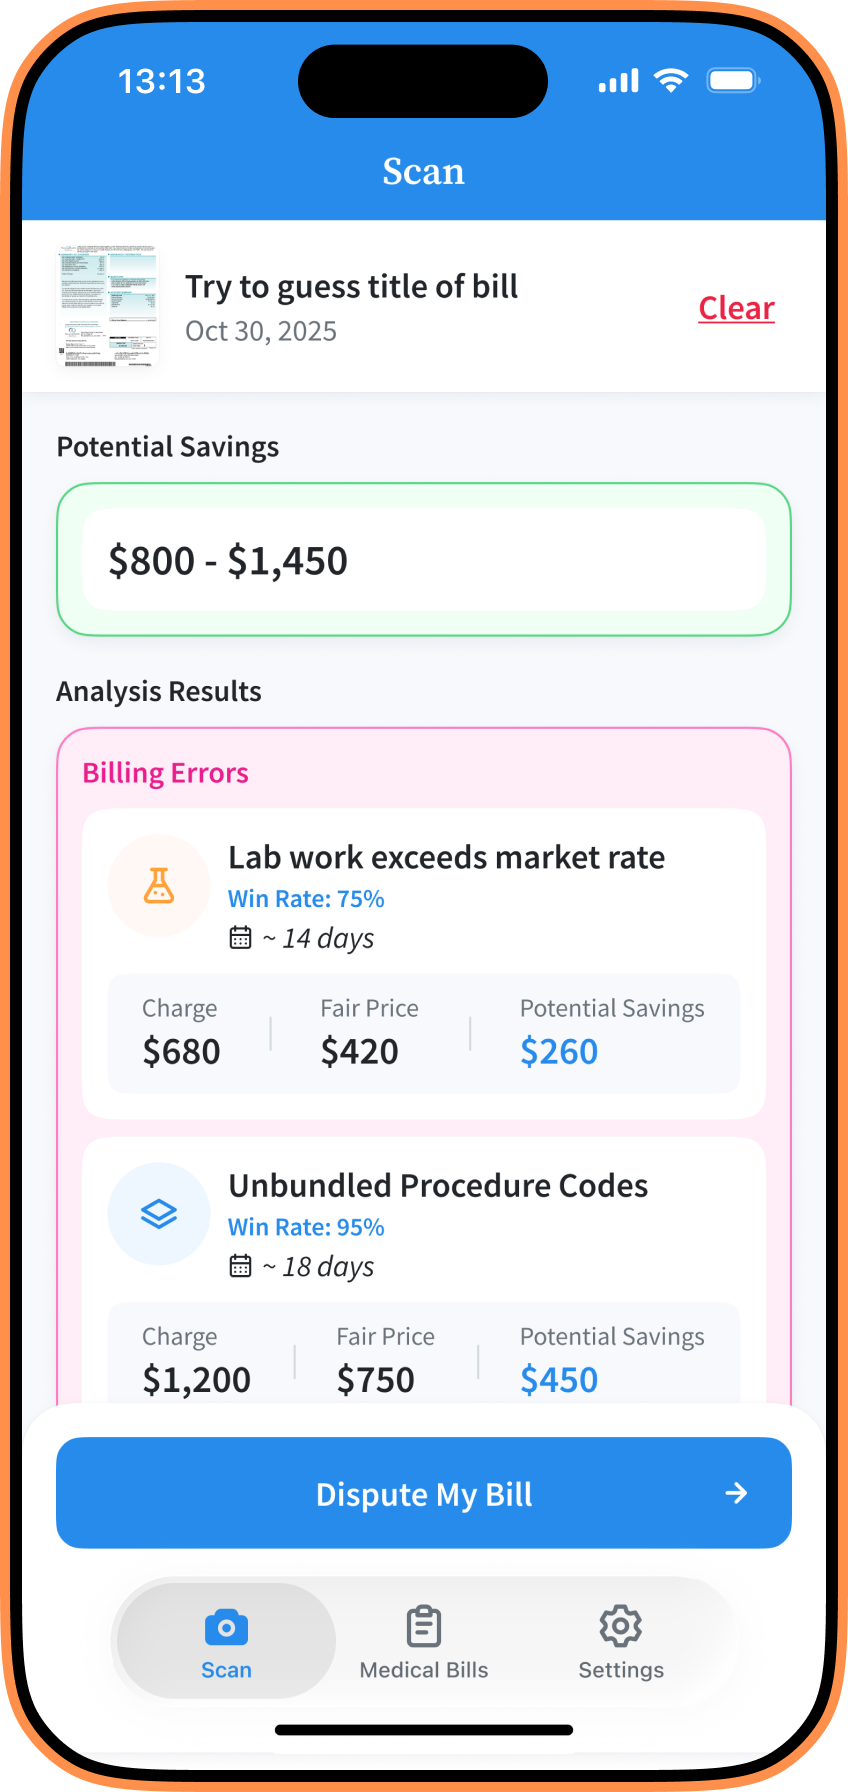
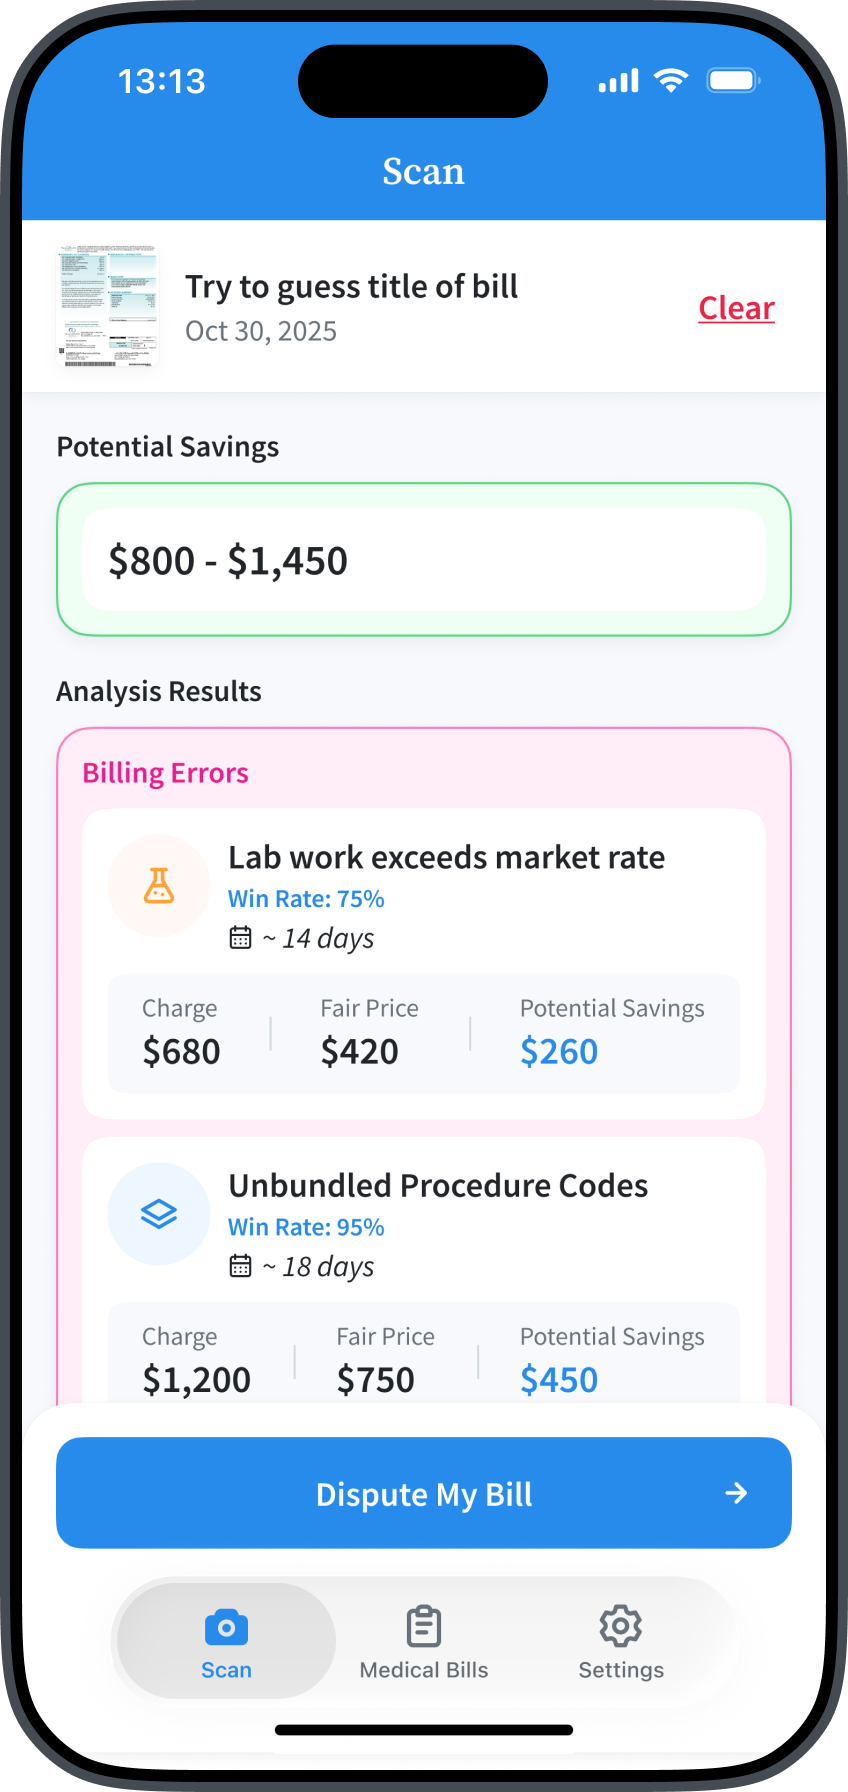
Update phone screenshots and resize to 320×676

diff --git a/index.html b/index.html
@@ -423,7 +423,7 @@
         position: relative;
         z-index: 1;
         width: 100%;
-        max-width: 424px;
+        max-width: 320px;
       }
       .phone img {
         width: 100%;
@@ -452,7 +452,7 @@
           padding: 64px 0 96px;
         }
         .phone {
-          max-width: 424px;
+          max-width: 320px;
         }
         .phone-tag {
           left: -10px;
@@ -819,7 +819,7 @@
           min-height: 460px;
         }
         .panel-phone .phone {
-          max-width: 424px;
+          max-width: 320px;
         }
       }
 
@@ -1559,8 +1559,8 @@
                 <img
                   src="assets/phone1.png"
                   alt="MedAdvocate scan screen with options to take a photo, choose from photo library, or pick a file."
-                  width="424"
-                  height="896"
+                  width="320"
+                  height="676"
                   loading="lazy"
                 />
               </div>
@@ -1593,8 +1593,8 @@
                 <img
                   src="assets/phone2.png"
                   alt="MedAdvocate analysis results showing 5 issues with high win rates and a duplicate charge of $850."
-                  width="424"
-                  height="896"
+                  width="320"
+                  height="676"
                   loading="lazy"
                 />
               </div>
@@ -1627,8 +1627,8 @@
                 <img
                   src="assets/phone3.png"
                   alt="MedAdvocate-generated dispute letter ready to print, fax, or email."
-                  width="424"
-                  height="896"
+                  width="320"
+                  height="676"
                   loading="lazy"
                 />
               </div>
